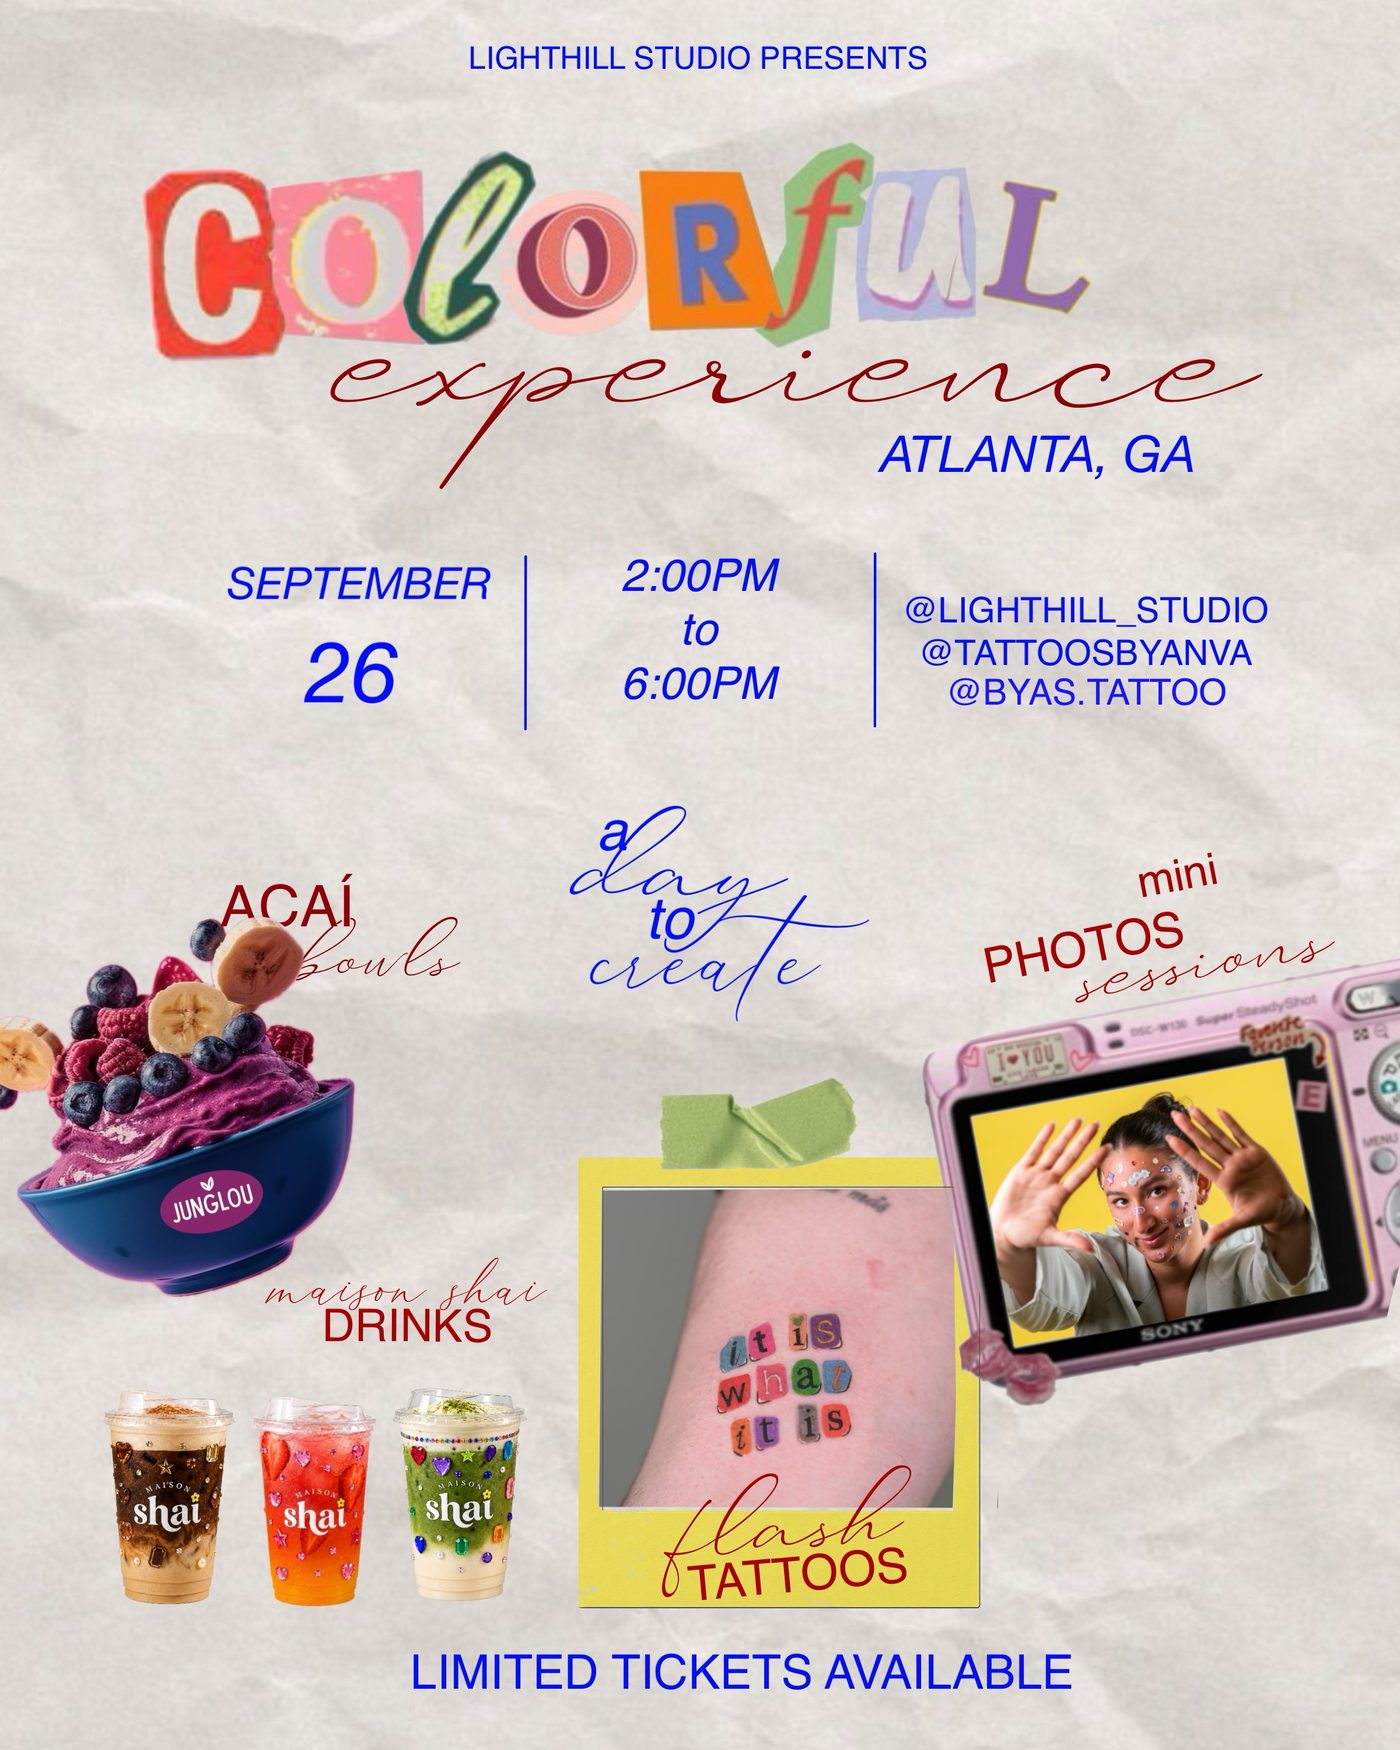
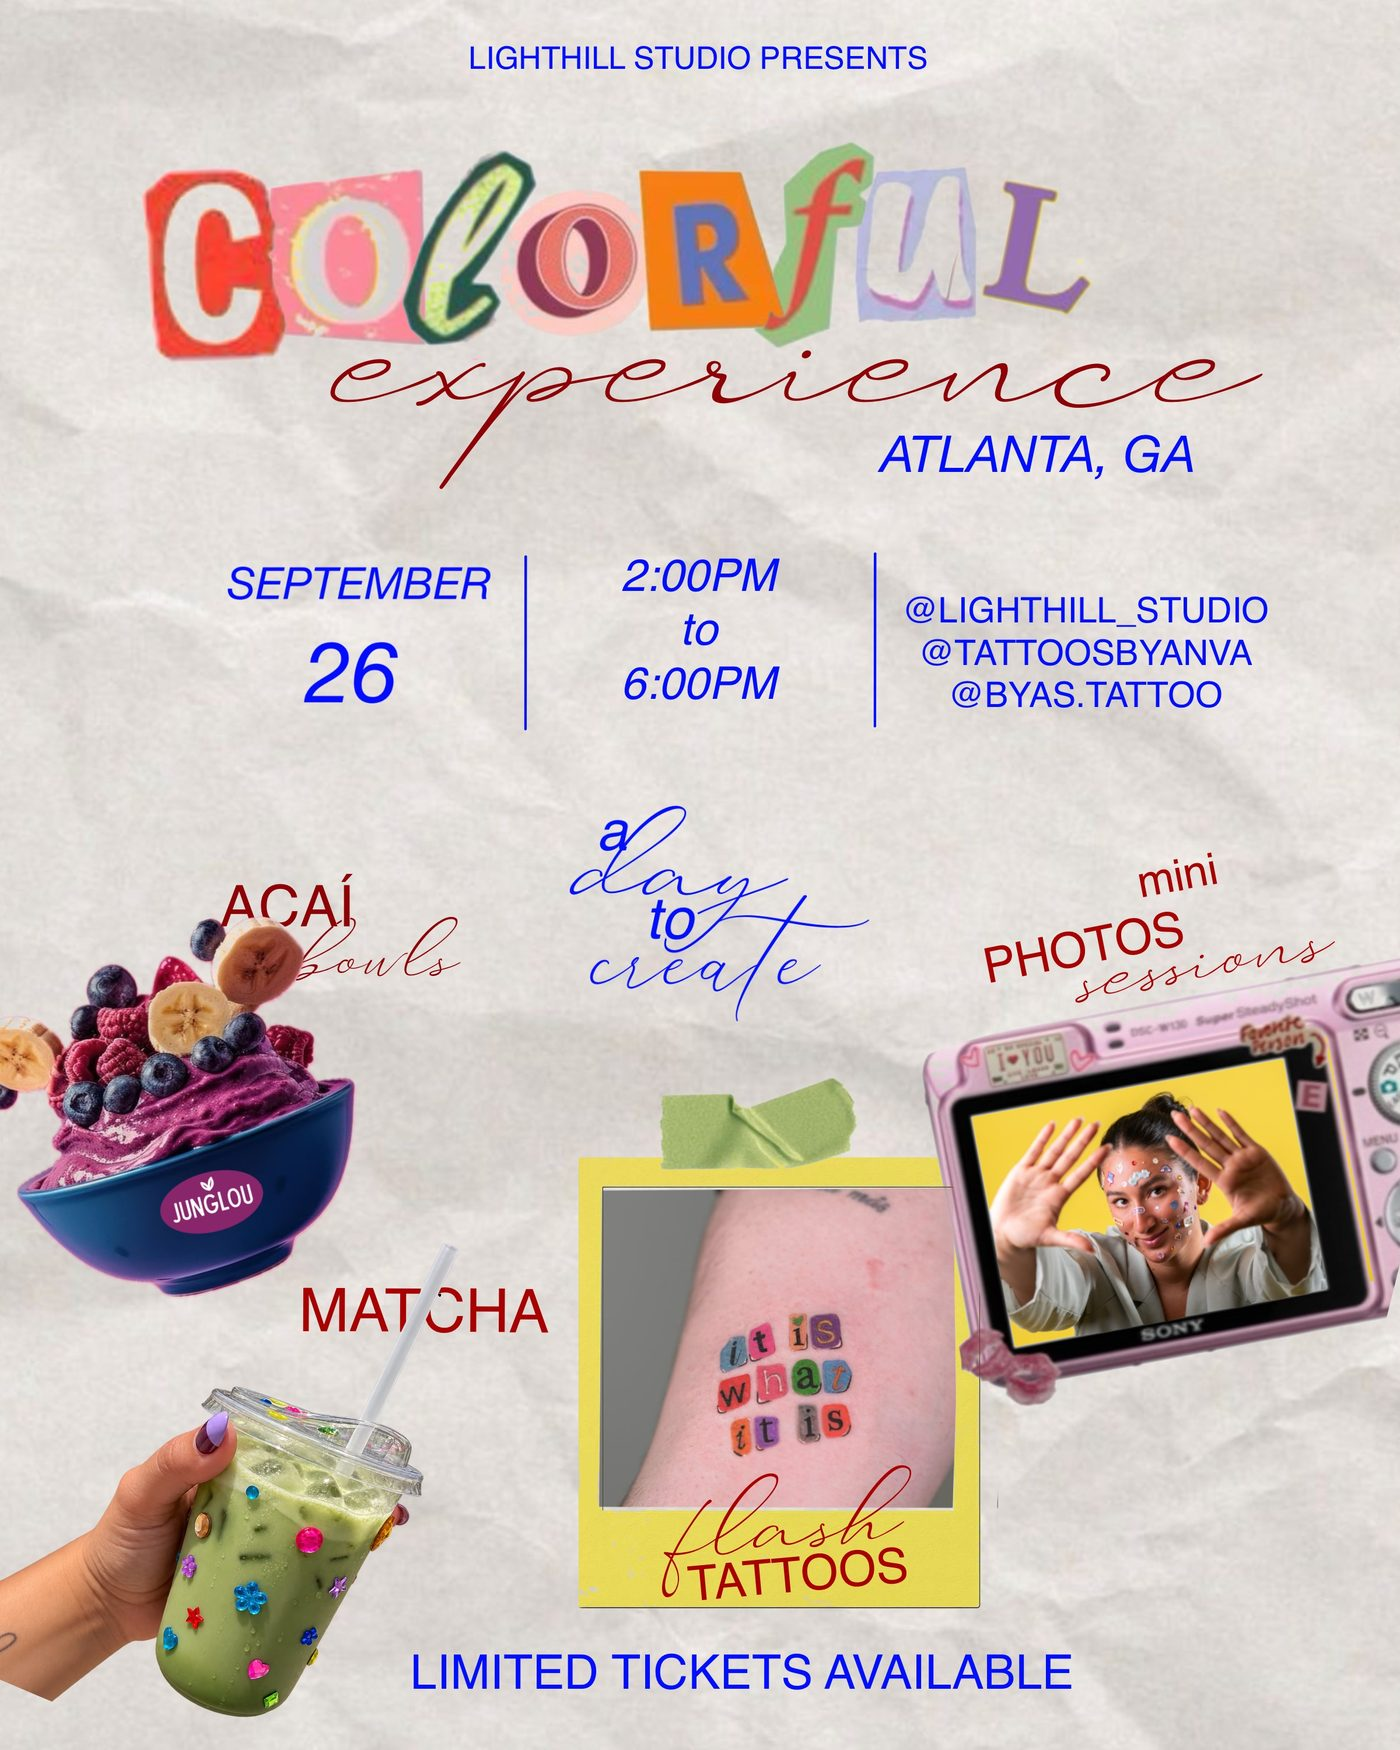
Update Colorful Experience hero flyer; drop Maison Shai and Luz from creators.

Changed region(s): [[0.0, 0.7097, 0.3993, 0.9874], [0.6757, 0.3703, 0.8907, 0.4011]]

diff --git a/data/event.ts b/data/event.ts
@@ -1,12 +1,5 @@
 export const colorfulCreators = [
   {
-    id: "luz",
-    src: "/images/colorful/photos-luz.jpg",
-    alt: "Mini photo sessions with Luz Reyes",
-    handle: "@luzreyherphotos",
-    url: "https://www.instagram.com/luzreyherphotos/",
-  },
-  {
     id: "hillary",
     src: "/images/colorful/photos-hillary.jpg",
     alt: "Mini photo sessions with Hillary Urgelles",
@@ -26,13 +19,6 @@ export const colorfulCreators = [
     alt: "Flash tattoos by Byas",
     handle: "@byas.tattoo",
     url: "https://www.instagram.com/byas.tattoo/",
-  },
-  {
-    id: "shai",
-    src: "/images/colorful/drinks-shai.jpg",
-    alt: "Handcrafted drinks by Maison Shai",
-    handle: "@maison.shai",
-    url: "https://www.instagram.com/maison.shai/",
   },
   {
     id: "junglou",

diff --git a/src/routes/colorful.tsx b/src/routes/colorful.tsx
@@ -170,7 +170,7 @@ function ColorfulPage() {
             {copy.event.dayToCreate}
           </p>
           <h2 className="ce-title mt-3 font-display text-title italic">{copy.event.creators}</h2>
-          <div className="mt-10 grid gap-4 sm:grid-cols-2 lg:grid-cols-3">
+          <div className="mt-10 grid gap-4 sm:grid-cols-2 lg:grid-cols-4">
             {colorfulCreators.map((creator) => (
               <a
                 key={creator.id}
